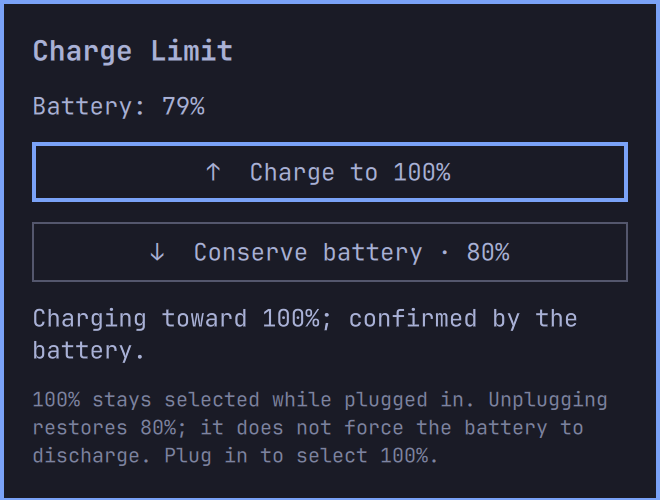
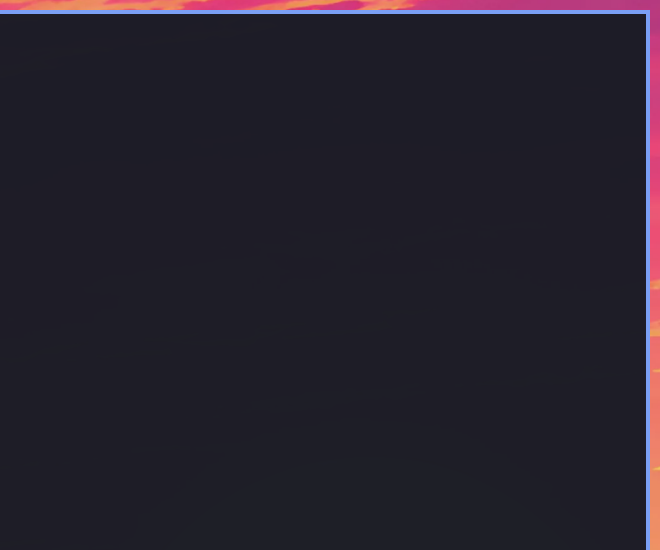
Add travel grace period and inline battery care
- Preserve Travel through interruptions shorter than five minutes using persisted boot-relative deadlines.
- Share policy with the fallback timer and cover boundary/restart behavior in isolated tests.
- Add Everyday/Travel labels and sourced battery-care guidance that expands in the panel.

diff --git a/BarWidget.qml b/BarWidget.qml
@@ -28,7 +28,7 @@ Ui.BarWidget {
     status.capacity)
   readonly property string message: !known ? strings.t("unavailable")
     : !status.supported ? strings.t("unsupported")
-    : !status.ac && full ? strings.t("resetFailed")
+    : !status.ac && full ? strings.t("grace")
     : UPower.onBattery || !status.ac ? strings.t("plugIn")
     : fullActive ? (status.chargeState === "Charging" ? strings.t("chargingStatus") : strings.t("fullStatus"))
     : full ? strings.t("notCharging")
@@ -219,7 +219,7 @@ Ui.BarWidget {
         width: parent.width
         textFormat: Text.PlainText
         text: action.running ? strings.t("changing") : root.error || root.message
-        color: root.error || (!root.status.ac && root.full) ? Commons.Color.urgent : Commons.Color.popups.text
+        color: root.error ? Commons.Color.urgent : Commons.Color.popups.text
         font.family: Commons.Style.font.family
         font.pixelSize: Commons.Style.font.body
         wrapMode: Text.Wrap
@@ -230,6 +230,24 @@ Ui.BarWidget {
         text: strings.t("explanation").arg(Commons.I18n.formatNumber(root.conserveEnd))
         color: Commons.Color.popups.text
         opacity: 0.7
+        font.family: Commons.Style.font.family
+        font.pixelSize: Commons.Style.font.caption
+        wrapMode: Text.Wrap
+      }
+      Ui.Button {
+        width: parent.width
+        text: Model.plain(strings.t("careTitle"))
+        focusable: true
+        onHovered: function(hovered) { if (hovered) careText.visible = true }
+        onClicked: careText.visible = !careText.visible
+      }
+      Text {
+        id: careText
+        visible: false
+        width: parent.width
+        textFormat: Text.PlainText
+        text: strings.t("care")
+        color: Commons.Color.popups.text
         font.family: Commons.Style.font.family
         font.pixelSize: Commons.Style.font.caption
         wrapMode: Text.Wrap

diff --git a/Service.qml b/Service.qml
@@ -16,7 +16,7 @@ Item {
   function applyPolicy(reset) {
     resetPending = resetPending || reset
     if (policy.running) return
-    policy.command = [runner, ctl, resetPending ? "conserve" : "tick"]
+    policy.command = [runner, ctl, resetPending ? "unplug" : "tick"]
     resetPending = false
     policy.running = true
   }

diff --git a/tests/test_controller.py b/tests/test_controller.py
@@ -22,6 +22,7 @@ class ChargePolicyTest(unittest.TestCase):
         self.set_file(self.battery, "capacity", 80)
         self.set_file(self.battery, "charge_control_start_threshold", 75)
         self.set_file(self.battery, "charge_control_end_threshold", 80)
+        self.set_file(self.root, "clock", 1000)
 
     def set_file(self, directory, name, value):
         (directory / name).write_text(str(value) + "\n")
@@ -33,6 +34,8 @@ class ChargePolicyTest(unittest.TestCase):
 POWER_SUPPLY="$2/power"
 STATE_DIR="$2/state"
 HELPER="$2/no-helper"
+CLOCK_FILE="$2/clock"
+now_seconds() { cat "$CLOCK_FILE"; }
 ''' + before + '\nmain "$3" "${4:-}"\n'
         return subprocess.run(
             ["/usr/bin/bash", "-c", script, "test", str(CONTROLLER), str(self.root), *command],
@@ -55,6 +58,9 @@ HELPER="$2/no-helper"
             self.run_ctl(["tick"])
             self.assert_profile(99, 100)
         self.set_file(self.ac, "online", 0)
+        self.run_ctl(["tick"])
+        self.assert_profile(99, 100)
+        self.set_file(self.root, "clock", 1300)
         self.run_ctl(["tick"])
         self.assert_profile(75, 80)
         self.set_file(self.ac, "online", 1)
@@ -107,7 +113,7 @@ HELPER="$2/no-helper"
         (self.battery / "status").unlink()
         self.assertEqual(self.status()["chargeState"], "Unknown")
 
-    def test_unplug_during_full_write_restores_conservation(self):
+    def test_unplug_during_full_write_starts_grace(self):
         self.run_ctl(["full"], before='''
 original=$(declare -f write_thresholds)
 eval "${original/write_thresholds/original_write}"
@@ -116,6 +122,52 @@ write_thresholds() {
   printf '0\\n' > "$POWER_SUPPLY/AC/online"
 }
 ''')
+        self.assert_profile(99, 100)
+        self.set_file(self.root, "clock", 1300)
+        self.run_ctl(["tick"])
+        self.assert_profile(75, 80)
+
+    def test_short_reconnect_retains_travel_and_restarts_next_grace(self):
+        self.run_ctl(["full"])
+        self.set_file(self.ac, "online", 0)
+        self.run_ctl(["unplug"])
+        self.set_file(self.root, "clock", 1299)
+        self.run_ctl(["tick"])
+        self.assert_profile(99, 100)
+        self.set_file(self.ac, "online", 1)
+        self.run_ctl(["tick"])
+        self.set_file(self.root, "clock", 1500)
+        self.set_file(self.ac, "online", 0)
+        self.run_ctl(["unplug"])
+        self.run_ctl(["tick"])
+        self.assert_profile(99, 100)
+        self.set_file(self.root, "clock", 1800)
+        self.run_ctl(["tick"])
+        self.assert_profile(75, 80)
+
+    def test_reconnect_after_deadline_does_not_rearm_travel(self):
+        self.run_ctl(["full"])
+        self.set_file(self.ac, "online", 0)
+        self.run_ctl(["unplug"])
+        self.set_file(self.root, "clock", 1300)
+        self.set_file(self.ac, "online", 1)
+        self.run_ctl(["tick"])
+        self.assert_profile(75, 80)
+
+    def test_pending_grace_from_another_boot_is_conservative(self):
+        self.run_ctl(["full"])
+        self.set_file(self.root / "state", "unplug_since", "previous-boot 1000")
+        self.run_ctl(["tick"])
+        self.assert_profile(75, 80)
+
+    def test_manual_everyday_during_grace_is_immediate(self):
+        self.run_ctl(["full"])
+        self.set_file(self.ac, "online", 0)
+        self.run_ctl(["unplug"])
+        self.run_ctl(["conserve"])
+        self.assert_profile(75, 80)
+        self.set_file(self.ac, "online", 1)
+        self.run_ctl(["tick"])
         self.assert_profile(75, 80)
 
 

diff --git a/README.md b/README.md
@@ -2,10 +2,10 @@
 
 ![Charge Limit with the full-charge profile outlined](preview.png)
 
-A small Quickshell toolbar plugin for Omarchy. Click the battery to choose **100% for this plug session** or your normal conservation limit (80% by default).
+A small Quickshell toolbar plugin for Omarchy. Choose **Travel · 100%** for runtime or **Everyday · 80%** for conservation.
 
 - **100% stays selected after the battery fills.** Firmware handles top-ups using 99–100% start/stop thresholds.
-- **Unplugging restores conservation**, normally 75–80%. Reconnecting does not select 100% again.
+- **Five continuous minutes unplugged restores Everyday**, normally 75–80%. Reconnect sooner and Travel survives; reconnect after expiry and Everyday remains.
 - The current profile has a theme-accent outline; the battery fill shows its charge level.
 - **↑ is hardware-confirmed:** AC connected, 99–100% thresholds, and Charging or Full (or Not charging at 100%). A selected limit alone is not proof of charging.
 - **↓** confirms the conservation limit. `?` means operation is not confirmed; the chooser explains the state.
@@ -51,6 +51,8 @@ Do not run this alongside competing charge policies (including older versions of
 
 The service reacts to UPower unplug events and reconciles the policy every 15 seconds. The indicator refreshes after actions, power-state changes, and periodically. Full charge is disabled when AC is not detected. The theme is followed live. English translations are bundled with Omarchy's language fallback mechanism.
 
+The five-minute deadline is persisted under the shared policy lock using boot-relative time, including suspend time, rather than a wall clock that can jump. Shell restarts and the optional fallback timer share it. Reset occurs on the first policy check at/after expiry (normally within 15 seconds); fallback-only timing follows that timer's interval. A pending deadline from an earlier boot resets conservatively. Clicking Everyday takes effect immediately. This grace period is a convenience choice, not a scientifically established battery-health threshold.
+
 `conserveEnd` in the widget settings defaults to 80; its start threshold is five points lower. If a separate fallback controller exists, keep its configuration aligned.
 
 The shell must be running to observe unplug events immediately. An unplug/replug entirely while powered off or asleep cannot be detected by this plugin. It does not install a boot reset policy; an independently configured conservation-at-boot policy is recommended.
@@ -66,7 +68,7 @@ From the plugin directory:
 ./scripts/charge-ctl tick
 ```
 
-`travel` is another name for `full`. Set `CHARGE_CONSERVE_END` for CLI calls when using a non-default cap. Hardware write failures are not reported as successful selections. Mutating calls share a lock; a disconnect during a full-charge write restores conservation before completion.
+`travel` is another name for `full`. Set `CHARGE_CONSERVE_END` for CLI calls when using a non-default cap. Hardware write failures are not reported as successful selections. Mutating calls share a lock; a disconnect during a full-charge write starts the same grace period. The service's `unplug` command records observed disconnections. Use this backend for any fallback timer; older controllers would bypass the grace period.
 
 ## Remove safely
 
@@ -100,6 +102,17 @@ node --check Model.js
 Tests use isolated battery files, never real sysfs writes or sudo. They cover full-charge retention, unplug/replug, offline rejection, write failure, stale state, disconnect during a write, hardware status, indicator gating, and markup-safe display text. Node and Python are development-only dependencies.
 
 Standalone `qmllint` needs Omarchy's shell exposed as a `qs` import. Current installed framework metadata produces warnings for dynamic theme properties and JavaScript maps assigned to Quickshell's `QVariantHash` environment; those paths have been checked at runtime. Warnings are not suppressed.
+
+## Battery care: evidence and limits
+
+The chooser expands its battery-care explanation in place on hover or click, without a separate tooltip. Practical advice:
+
+- **Avoid heat**, especially while charging. Follow your laptop manufacturer's temperature limits; a cool, ventilated desk is preferable to a hot car or insulating bedding.
+- **Avoid unnecessary extended time at full charge.** Everyday reduces time at a high state of charge; Travel deliberately trades that benefit for runtime. Charging to 100% for a trip is an intended use, not an immediate battery-damage event.
+- **Do not deliberately drain to zero to “exercise” the battery.** For long-term storage, roughly half charge and a cool environment are recommended. A stored empty battery can become deeply discharged.
+- Lowering the cap does not drain stored energy. The plugin never forces a discharge/recharge cycle, bypasses thermal protection, or controls USB-C negotiation. It cannot promise a lifespan improvement of a specific percentage.
+
+Sources: [Apple — Maximizing Battery Life and Lifespan](https://www.apple.com/batteries/maximizing-performance/) explains reducing time at high charge, heat-related permanent capacity loss, and half-charged storage. [Apple — Lithium-ion batteries](https://www.apple.com/batteries/why-lithium-ion/) explains partial charging and cumulative charge cycles. These are manufacturer guidance for lithium-ion devices, not a controlled study of this ThinkPad or a universal 80% optimum. Laptop-specific firmware limits still govern charging.
 
 ## License
 
